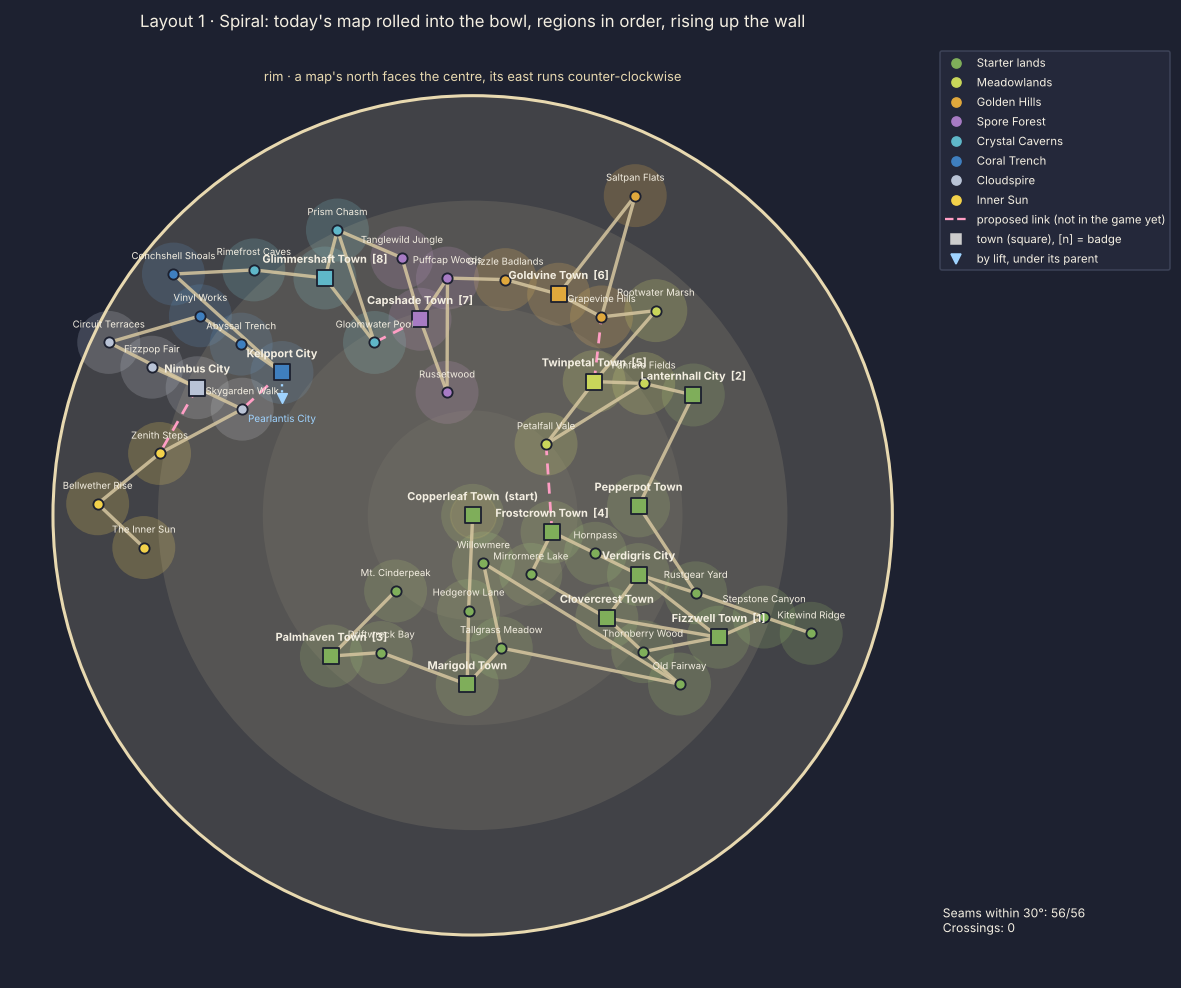
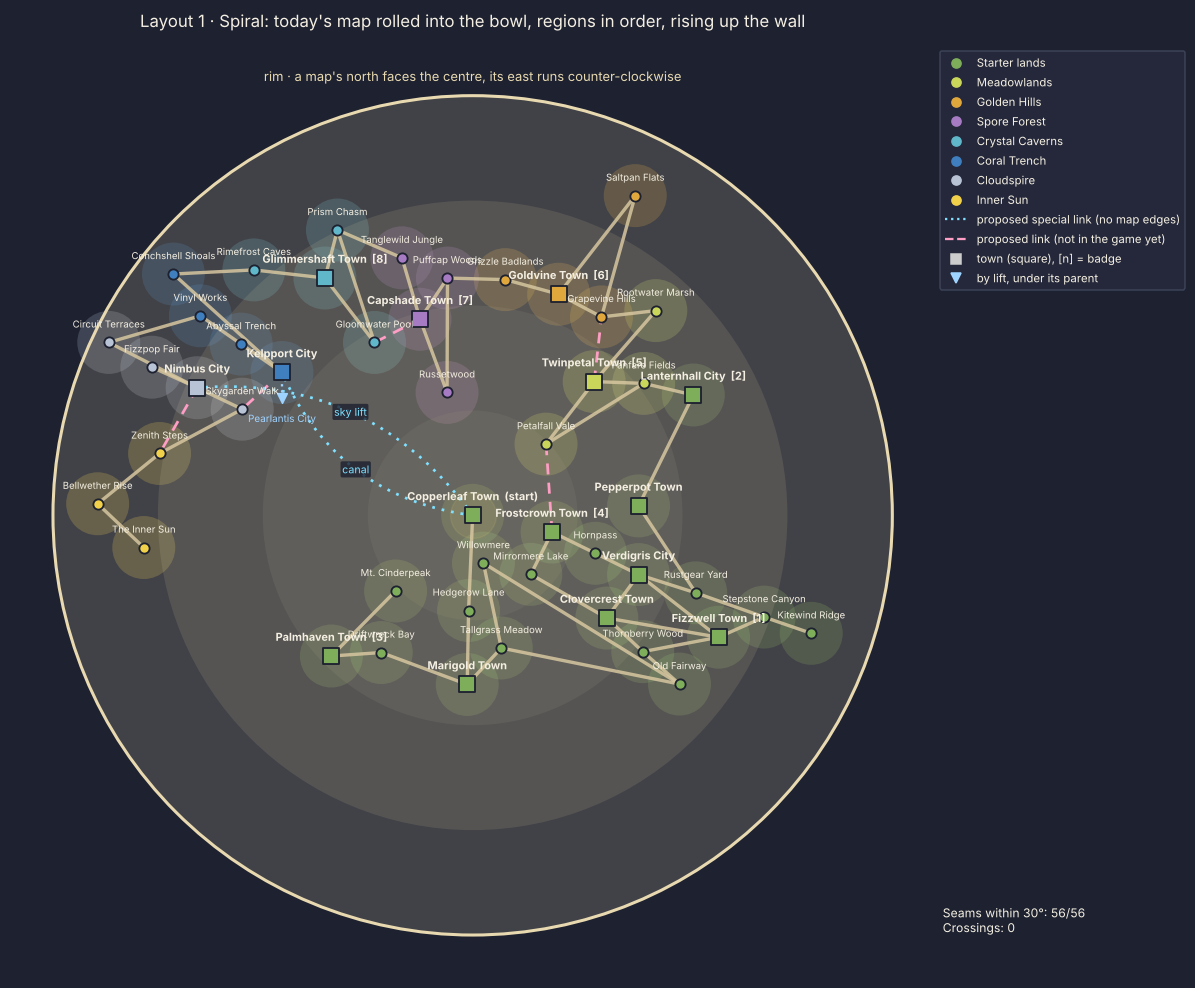
World map bowl: layout 1 chosen; Copperleaf special links proposed
Claude-Session: https://claude.ai/code/session_01C68F1oVG1i63UQSmfwCXnS

diff --git a/tools/layout/bowl_check_draw.py b/tools/layout/bowl_check_draw.py
@@ -83,6 +83,17 @@ for name, pos in D['layouts'].items():
         for a, b in PROPS:
             A, B = P[a], P[b]
             ax.plot([A[0], B[0]], [A[1], B[1]], color='#ff9ec4', lw=1.8, ls=(0, (4, 3)), zorder=1)
+    SPECIAL = D.get('special_by_layout', {}).get(name, [])
+    for a, b, kind in SPECIAL:
+        A, B = P[a], P[b]
+        mid = 0.5 * (A + B); v = B - A; nrm = np.array([-v[1], v[0]])
+        ctrl = mid + 0.28 * nrm * (1 if kind == 'canal' else -1)
+        t = np.linspace(0, 1, 60)[:, None]
+        pts = (1 - t) ** 2 * A + 2 * (1 - t) * t * ctrl + t ** 2 * B
+        ax.plot(pts[:, 0], pts[:, 1], color='#7fe0ff', lw=1.8, ls=(0, (1, 2.5)), zorder=1)
+        q = pts[30]
+        ax.text(q[0], q[1], kind, color='#7fe0ff', fontsize=7, ha='center', va='center',
+                bbox=dict(boxstyle='round,pad=0.15', fc='#1d2130', ec='none', alpha=0.8), zorder=4)
     # region hulls as soft blobs
     for reg in REG_COL:
         pts = np.array([P[l['id']] for l in L if region(l) == reg and l['id'] not in D['sub']])
@@ -109,6 +120,8 @@ for name, pos in D['layouts'].items():
              'N': 'Layout 2 · Natural basin: north up the wall: sea and ponds on the floor, peaks and sky high, regions rising clockwise'}[name]
     ax.set_title(title, color='#f4efe2', fontsize=11, pad=12)
     hs = [plt.Line2D([], [], marker='o', ls='', color=REG_COL[k], label=REG_NAME[k]) for k in REG_COL]
+    if SPECIAL:
+        hs.append(plt.Line2D([], [], color='#7fe0ff', ls=':', label='proposed special link (no map edges)'))
     if PROPS:
         hs.append(plt.Line2D([], [], color='#ff9ec4', ls='--', label='proposed link (not in the game yet)'))
     hs += [plt.Line2D([], [], marker='s', ls='', color='#cccccc', label='town (square), [n] = badge'),

diff --git a/docs/phases/10-proposed-links.md b/docs/phases/10-proposed-links.md
@@ -15,6 +15,18 @@ would cross no existing road, and whose land suits each other.
 | 4 | Kelpport City <-> Skygarden Walk | A sky lift from the harbour up into Cloudspire | Kelpport `east` (free) <-> Skygarden `west` (free) | Post-game: once Cloudspire is open |
 | 5 | Nimbus City <-> Zenith Steps | Cloudspire's town opens straight onto the climb to the Inner Sun | Nimbus `east` (free) <-> Zenith Steps `west2` (west taken) | Post-game: the Inner Sun story beat |
 
+## Special links from Copperleaf (owner's request)
+These are not walking roads. Like the existing glass lift (Kelpport <-> Pearlantis, `kind: lift`), they need no map
+edges: each is a station you enter in one town and leave in the other. That keeps the seams and the bowl layout as they
+are; on the bowl they show as a dotted arc, not a road.
+
+| # | Link | Why it feels natural | Kind | Story check before it opens |
+|---|------|----------------------|------|-----------------------------|
+| 6 | Copperleaf Town <-> Kelpport City | Water runs down the walls to the floor; an old canal under Copperleaf leads up to the harbour by boat | `lift`-style (canal), station in each town | Post-game: once the Coral Trench is open; maybe needs the Ride rule |
+| 7 | Copperleaf Town <-> Nimbus City | A sky lift (cable car) from home up to Cloudspire, a quick way back after the long climb | `lift`-style (sky lift), station in each town | Post-game: once Cloudspire is open |
+
+More of this kind can be added the same way (a station in Copperleaf, one in the far town).
+
 For each link, when it is added:
 - Build the two edge strips on the walkable maps (the seam must line up, phase 08 checks).
 - Add the road to `roads.json` with its gate or story flag.

diff --git a/docs/phases/10-world-map-bowl.md b/docs/phases/10-world-map-bowl.md
@@ -27,7 +27,8 @@ centre, the ground generated from region terrain, seen from above like a diorama
   graph-test update before it enters the game.
 - **Feel:** the layout should feel authentic and natural.
 
-## E-map-1 result (2026-10-19, waiting for the owner's pick)
+## E-map-1 result (2026-10-19): owner chose layout 1; the proposed links are kept as notes
+Copperleaf also gets proposed special links (canal to Kelpport, sky lift to Nimbus); see `10-proposed-links.md`.
 Sketches and data in `docs/phases/10-bowl/` (made by `tools/layout/`).
 - **Layout 1, spiral (recommended).** On the bowl a map's north faces the centre and its east runs counter-clockwise.
   Today's order rolls round the bowl and rises up the wall; the Inner Sun ends high at the rim. All 56 seams point
